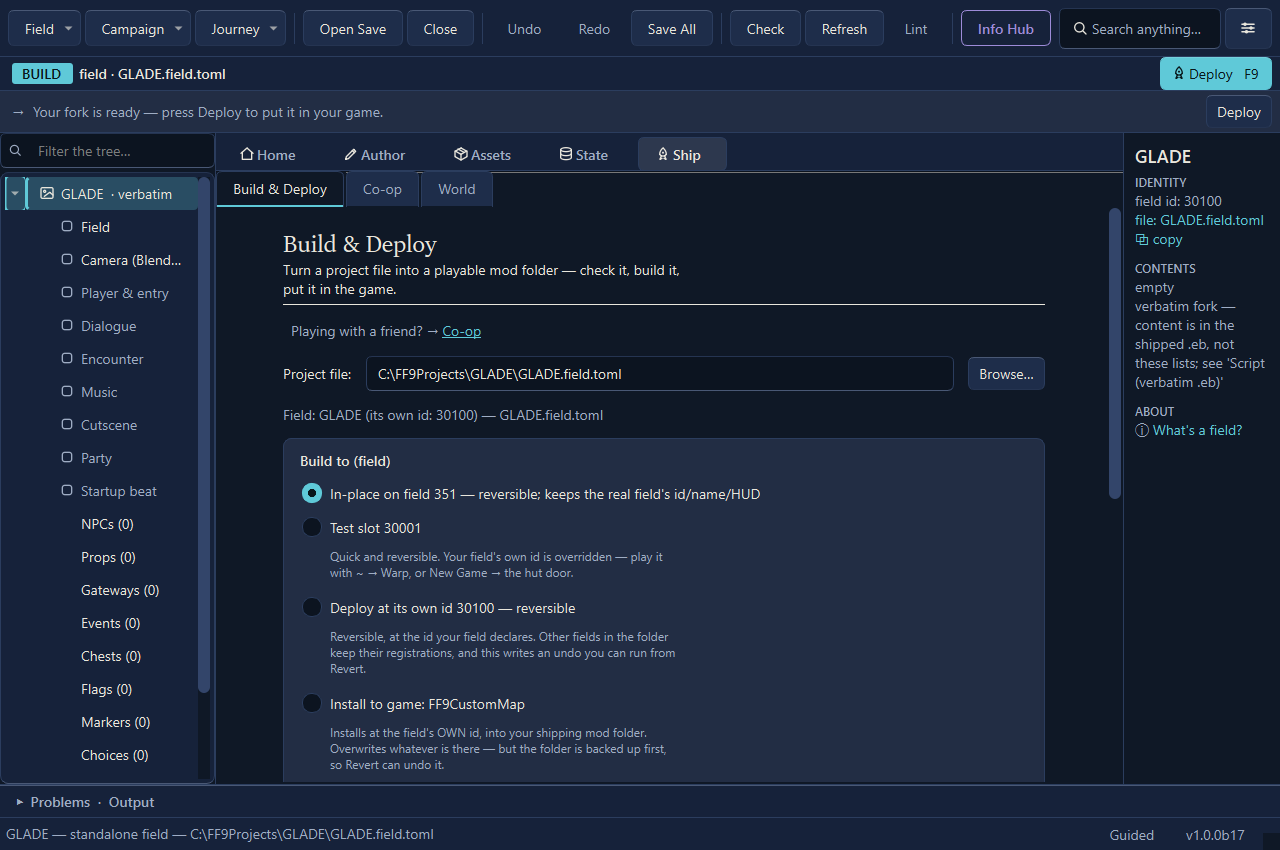
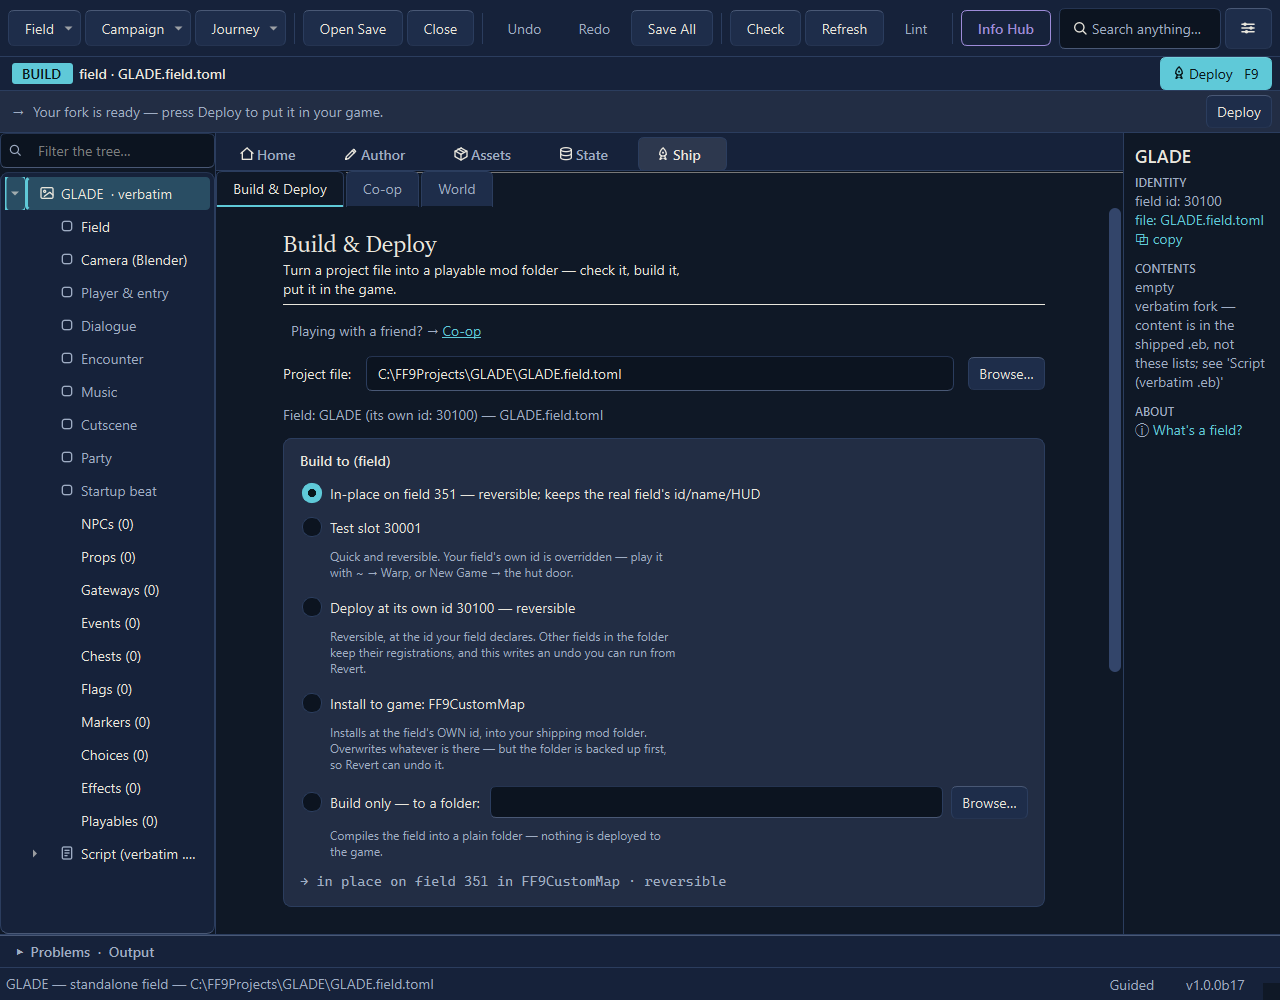
fix(docsite): viewport-clip gate for callouts (owner-caught), +3 figures, tutorial-07 staleness contained
The Build tab's ring 4 pointed at a radio the scroll viewport clipped --
window-bounds containment was the wrong instrument; rects now must also
sit inside EVERY ancestor scroll viewport (pure geometry, not
visibleRegion, per the WA_DontShowOnScreen lesson). Build shot 1000px,
all four routes visible. New figures: home-ready (SETUP 6), fork-regions
(tutorial 07). A dlg:new-journey shot was pulled: the dialog paints the
cwd (dlg needs an adapter to pin) and its teach text shows tutorial 07's
Pick-FF9-regions step is stale -- accuracy pass spawned separately.
--check: 10 committed PNGs reproduce exactly.

diff --git a/docsite/shots.py b/docsite/shots.py
@@ -151,7 +151,8 @@ def render_shot(gs, name: str, shot: dict, theme: str, out_dir: Path) -> dict:
     else:
         scratch = Path(tempfile.mkdtemp(prefix="docshot_"))
         ctx = _ctx(gs, theme, shot, scratch)
-        getattr(gs, f"snap_{fam}")(ctx, state)
+        fn = {"dlg": "snap_dialog"}.get(fam, f"snap_{fam}")   # gui_snap's one irregular name
+        getattr(gs, fn)(ctx, state)
         take = shot.get("take") or f"{fam}-{state}"
         src = scratch / f"{take}_{theme}_{ctx.scale}.png"
         assert src.is_file(), (f"{name}: surface {surface} produced no take {take!r} "
@@ -185,6 +186,24 @@ def _fixture_verbatim_fork(gs) -> Path:
     return proj
 
 
+def _viewport_clip(w, win, QPoint) -> str | None:
+    """The name of the first ancestor scroll viewport that clips any part of `w`, else None.
+    Pure geometry (mapTo against each viewport), deliberately not visibleRegion(): paint-derived
+    answers are unreliable under WA_DontShowOnScreen (the builddoc _inplace_available lesson)."""
+    from PySide6.QtWidgets import QAbstractScrollArea
+    p = w.parentWidget()
+    while p is not None and p is not win:
+        if isinstance(p, QAbstractScrollArea):
+            vp = p.viewport()
+            t = w.mapTo(vp, QPoint(0, 0))
+            if not (0 <= t.x() and 0 <= t.y()
+                    and t.x() + w.width() <= vp.width()
+                    and t.y() + w.height() <= vp.height()):
+                return type(p).__name__ + " viewport"
+        p = p.parentWidget()
+    return None
+
+
 def _pin_grab(gs, win, shot: dict, png: Path, QPoint) -> dict:
     """Apply painted-path pins, resolve annotation rects, grab the window, close it."""
     try:
@@ -208,13 +227,18 @@ def _pin_grab(gs, win, shot: dict, png: Path, QPoint) -> dict:
                 f"annotation target {a['widget']} is not visible in this state"
             top = w.mapTo(win, QPoint(0, 0))
             rect = [top.x(), top.y(), w.width(), w.height()]
-            # FULL containment, or fail: a target scrolled out of the window still maps to
-            # coordinates, and a ring at the clipped edge silently points at nothing (caught
-            # live on the Import button under an 850px window).
+            # FULL containment, or fail -- in the WINDOW and in EVERY ancestor scroll viewport.
+            # Window bounds alone are not enough: a widget below a scroll area's fold still maps
+            # to in-window coordinates while the viewport clips its pixels, so the ring points at
+            # nothing (the owner caught exactly this on the Build tab's fourth radio).
             assert 0 <= rect[0] and 0 <= rect[1] \
                 and rect[0] + rect[2] <= win.width() and rect[1] + rect[3] <= win.height(), \
                 (f"annotation target {a['widget']} is clipped at {rect} in a "
                  f"{win.width()}x{win.height()} window -- raise the shot height or drop the note")
+            clip = _viewport_clip(w, win, QPoint)
+            assert clip is None, \
+                (f"annotation target {a['widget']} is scrolled out of its {clip} -- "
+                 f"raise the shot height or drop the note")
             notes.append({"widget": a["widget"], "label": a.get("label", ""),
                           "kind": a.get("kind", "ring"), "rect": rect})
         img = win.grab().toImage()

diff --git a/ff9mapkit/docs/tutorials/07-gui-journey.md b/ff9mapkit/docs/tutorials/07-gui-journey.md
@@ -21,6 +21,8 @@ Start with a small slice — one or two arcs; regions can be added at any time.
    the opening arcs.
 5. **OK** writes a `journeys.toml` into the folder and opens the Journey Editor.
 
+![The FF9 region catalog — every forkable zone by story-state visit, with seed ids and field counts](../../../docsite/assets/shots/fork-regions_light.png)
+
 ## 2. Fork the game data
 
 If base templates are not yet extracted, the Import tab's **Regenerate base templates** button

diff --git a/SETUP.md b/SETUP.md
@@ -250,6 +250,8 @@ py apps\ff9_workspace.pyw            # from a repo checkout
 py apps\ff9_workspace.pyw --smoke    # headless self-check
 ```
 
+![The Workspace Home screen with the setup checklist and quick-start cards](docsite/assets/shots/home-ready_light.png)
+
 Built around a **journey ▸ campaign ▸ field ▸ object** tree with a breadcrumb, a tabbed document
 area, a right-hand Inspector (with live field-art thumbnails), and a bottom Output/Problems
 console:
